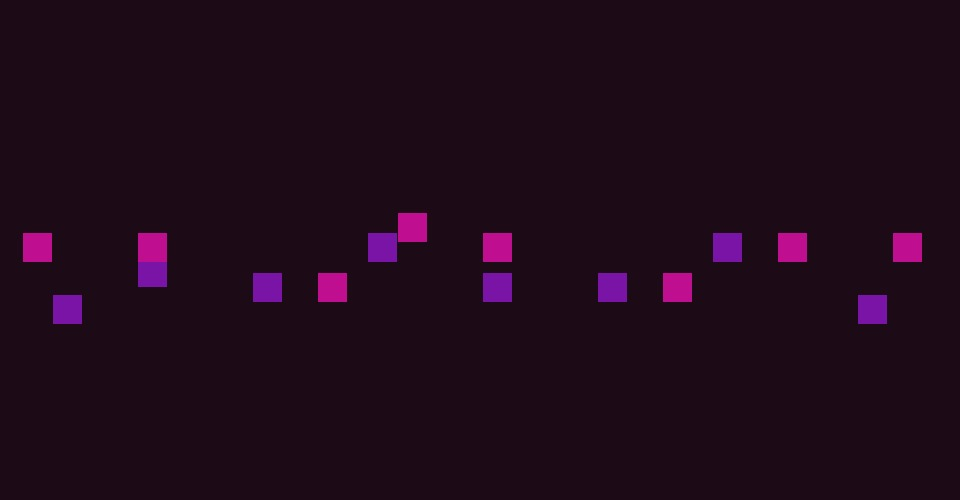
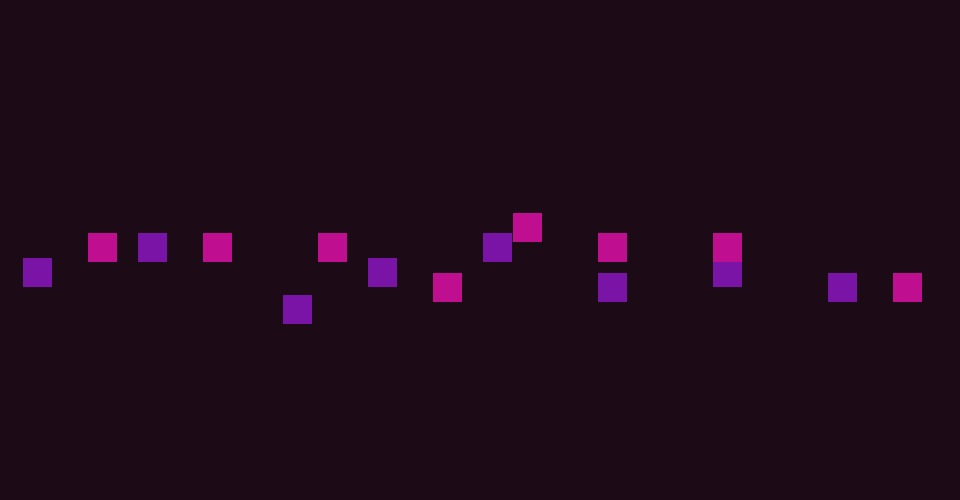
Final Push
This is the final push

diff --git a/Ruddell_Ave_MDDN242_Project2/index.html b/Ruddell_Ave_MDDN242_Project2/index.html
@@ -4,7 +4,6 @@
     <script language="javascript" type="text/javascript" src="z_purview_helper.js"></script>
     <script language="javascript" type="text/javascript" src="letters.js"></script>
     <script language="javascript" type="text/javascript" src="draw_letters.js"></script>
-    <script language="javascript" type="text/javascript" src="interaction.js"></script>
     <script language="javascript" type="text/javascript" src="exhibition.js"></script>
 </head>
 <body style="background-color:white">

diff --git a/Ruddell_Ave_MDDN242_Project2/README.md b/Ruddell_Ave_MDDN242_Project2/README.md
@@ -12,4 +12,13 @@
 
 Semaphore Alphabet, for reference (https://cdn.britannica.com/41/133741-050-FA798221/Semaphore-flag-signals.jpg)
 
-After recieving feedback in today's crit, I decided to experiment with filling my squares with a colour two shades lighter than the outline colour. I did find that this improved the readability of my alphabet, however when in exhibition mode I felt that having the darker outline with the lighter fill looked half finished.
+This is my final alphabet. I chose to use the semaphore alphabet to inform my decisions around how my letters looked and the placement of the squares.
+
+Each letter is represented by two squares of different colours, and their position is what indicates which letter. I chose to use two different colours as I felt that it would help the viewer to know which letter was which, as you know that the letter is made up of one pink square and one purple, helping to distinguish a boundary between the letters.
+
+I wanted to steer away from the aviation and naval roots of the semaphore alphabet, and thus decided to use colours that could be considered more modern. I chose colours that fit more into a 'neon' kind of aesthetic (mine taken directly from https://flic.kr/p/2j2strf ) To increase readability I filled the squares with their corresponding colours.
+
+I had some difficulty coming up with a number system that I felt stuck with the essence of the semaphore alphabet without being too similar to the letters. 
+I feel like this could have been done better had I been willing to change the sizes of the squares in the number, however I felt that this would have made the numbers not look as though they were part of the overall alphabet.
+
+In the future I would like to go into a project with a more coherent and thought out idea, as although I knew what I wanted to do with this project, had I had a more coherent design idea at the beginning some of the difficulties I encountered (more specifically with the numbers) would have been easier to work through.
